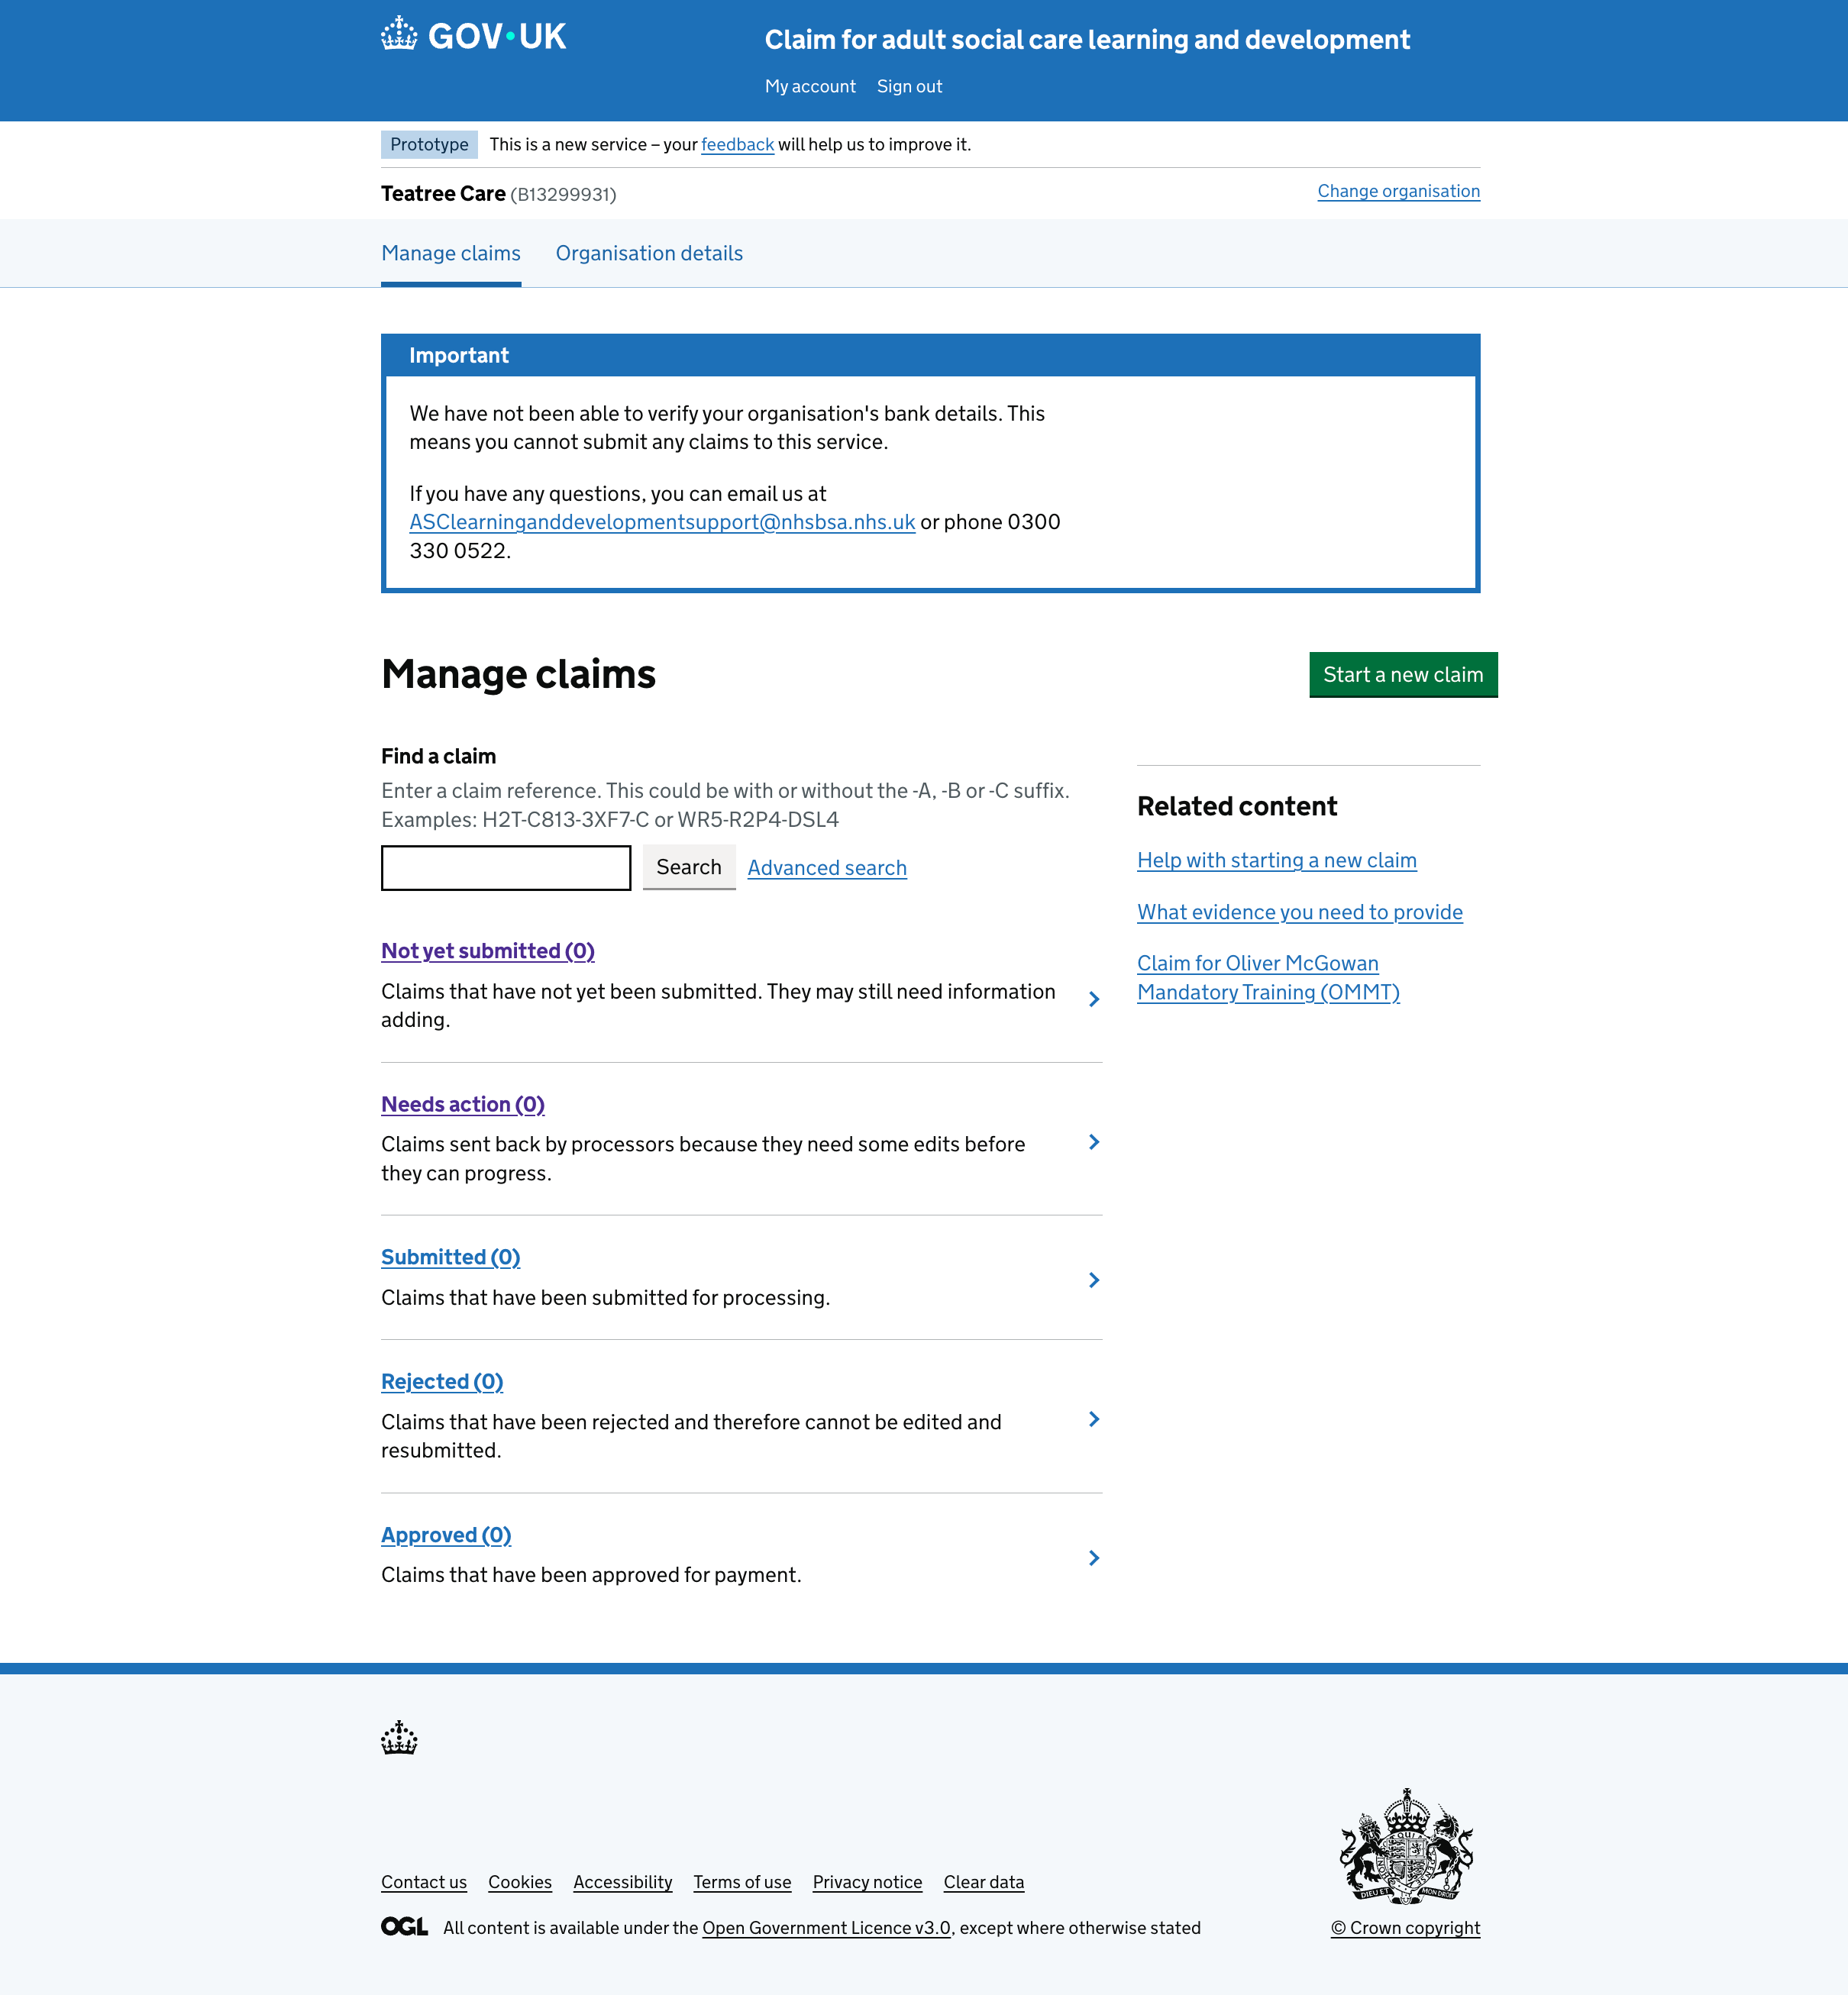
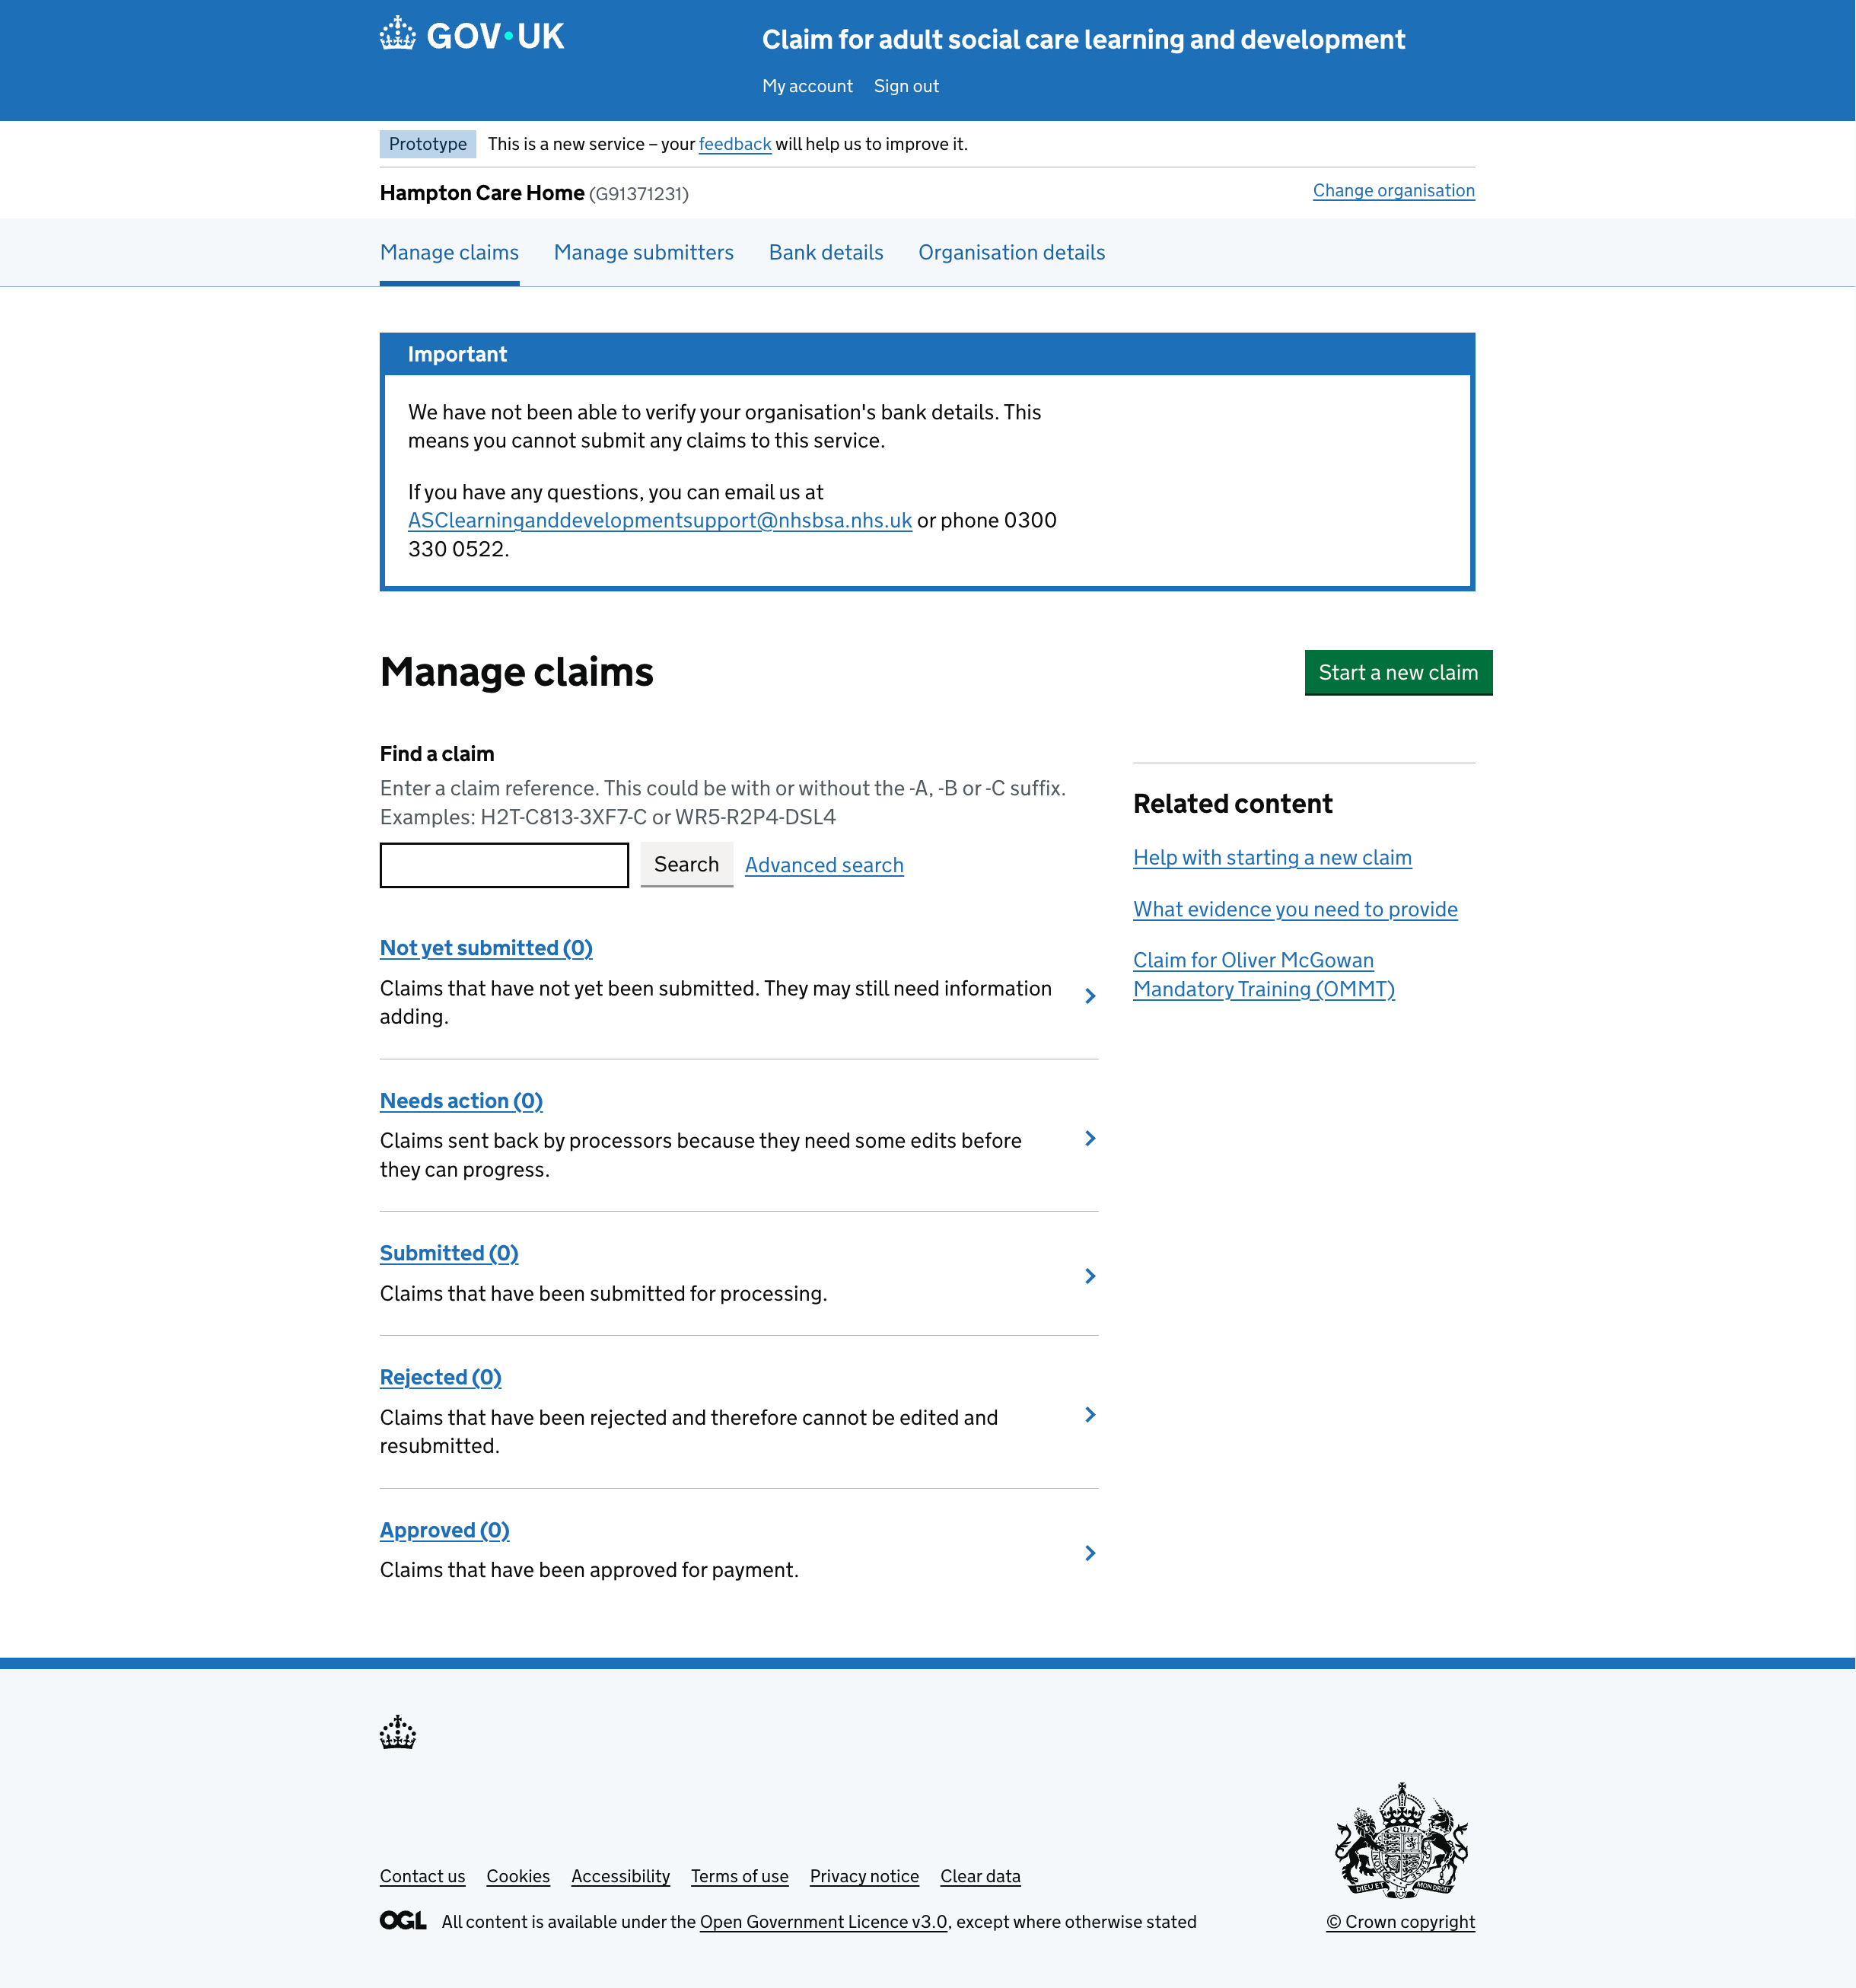
updating

diff --git a/app/posts/claims/2026-06-01-bank-details-org.md b/app/posts/claims/2026-06-01-bank-details-org.md
@@ -115,7 +115,7 @@ This would provide the best user experience and remove much of the manual operat
 
 - OM task
 
-Remove the first spreadsheet and instead have a OM task created and assigned to a QA once bank details have been submitted by a organisation. The task would contain the workplace ID of the org to check and the QA would go into the service to find the details 
+Remove the first spreadsheet and instead have a OM task created and assigned to a QA once bank details have been submitted by a organisation. The task would contain the workplace ID of the org to check and the QA would go into the service to find the details.
 
 > **We believe that** introducing a OM task for bank details verification
 > **Will be a useful feature for** QA's and organisations
@@ -123,11 +123,23 @@ Remove the first spreadsheet and instead have a OM task created and assigned to 
 
 - Bank verification status and outcome
 
-Introducing in a new status that shows the state of the bank verification checks of either "Not yet added" "Not yet processed (for QA's) / Submitted (for organisations)", "Verified", "Failed verification". 
+Introducing in a new status that shows the state of the bank verification checks of either "Not yet added", "Submitted", "Verified", "Failed verification". The AccessPay result of "Not yet added" and "Submitted" would be dependent on whether bank details have been inputted into the service by the organisation. The AccessPay results of "full match", "partial match", "unable to check" and "no match" will map to the bank verification status of "verified" or "failed verification" in the service based on how a QA resolves the result.
 
 > **We believe that** introducing this status into the service
 > **Will be a useful feature for** QA's and organisations
-> **As it will** make it clear to org's, SRO's and future processors whether the details have been verified and they don't have to consult offline spreadsheets or emails, and it saves phonecalls from the org to the BSA staff to confirm the state of their details.
+> **As it will** make it clear to org's, SRO's and future processors whether the details have been verified and they don't have to consult offline spreadsheets or emails, and it saves phonecalls from the org to the BSA staff to confirm the state of their details. Expectations on next steps communicated in the service can be set based on the status. 
+
+- Banners based off bank verification status
+
+Adding in the status of the verification of bank details means we can make the service more dynamic and specific in the content we deliver to the organisation of what can expect to happen now. 
+
+| Status | Manage claims banner content |
+| -------- | -------- |
+| Not yet added | Direct org's to get their SRO to upload their bank details. If they try to submit claims, we can inform them their bank details are missing. |
+| Submitted |  In combination with adding the date the details were submitted on the bank details tab, the banner can inform the org they are awaiting verification within 5 working days of the submitted date. Directs them to the email address they can expect a email from. |
+| Verified | The banner informs the organisation they can now submit claims. Banner is removed once there is a claim in the "submitted", "needs action", "approved" or "rejected" tab |
+| Failed verification |  Informs the organisation the details failed verification and can't submit claims. Directs to support details if needed |
+
 
 - Submission upon verification
 
@@ -174,60 +186,69 @@ Through these discussions we found that:
 
 ### MVP approach
 
-We held a scoping session and agreed that the first iteration should focus on delivering the smallest change that would provide meaningful value. Replacing a bit of the process, then can iterate to bring in more, as we aren’t saying this design is the perfect solution as that would probably be closer to full automation, but what’s the minimum we can do that brings value. If we went with bringing in edit into this first iteration with editing of details and uploading evidence and notes in the service, then it will take longer. 
+We held a scoping session and agreed that the first iteration should focus on delivering the smallest change that would provide meaningful value. Replacing a bit of the process, then can iterate to bring in more, as we aren’t saying this design is the perfect solution as that would probably be closer to full automation, but what’s the minimum we can do that brings value. If we went with bringing in edit into this first iteration with editing of details and uploading evidence and notes in the service, then it will take longer to develop and deliver. 
 
 The proposed MVP would:
-- Surface final bank verification outcome in the service. 
-- Show status for "not yet added", "submitted/not yet processed", "verified" and "verification failed" leaving anything to do with problem states offline. 
+- Record and surface just the final bank verification outcome in the service. 
+- Show status for "not yet added", "submitted", "verified" and "verification failed" leaving anything to do with problem states offline. 
 - Use banners to inform organisation's of what they should expect to happen next based on the status of their bank details
 - Include date of submission/verification/failure to help frame timelines of expectations and context
 - Prevent organisations from submitting claims until verification is complete which prevents claim processors from processing claims for organisations that have not been verified.
 - Remove the need for the first and third spreadsheet currently used in the process
 - Keep the existing offline process for resolving verification issues. This is what was captured in the second spreadsheet. All the interim results will be documented the same as now. Keeps it clear where each part of the process is happening by not bringing it just partly into the service. 
 - If need to update details, the QA will submit a service desk request. Once the request has been completed then the QA will be informed and they will go and record the verified result in the service.
+- Automatic emails will be sent to organisations based off the final outcome entered into the service.
+- SRO and submitters will have different role based access in the service. SRO's can enter the details and see the bank details tab. Submitter's don't have access to the bank details tab, they are informed on the status on the bank details verification based off the banner in the manage claims tab.
 
 Some business process clarifications:
 - If a organisation does not respond to email requests for additional information or updated details, it is a reject after a to-be agreed upon timeframe.
 - Organisation's should still be able to access the service if they have been rejected but not submit claims. 
 
-#### Final designs to go into testing 
+#### Designs to go into testing 
 
-Not yet added
+Status: Not yet added
 
 <div style="display: flex; flex-wrap: wrap; gap: 1rem;">
-  <div style="flex: 1; max-width: 48%;">
-    <figure>
-      <img src="sro-not-yet-added.png" alt="Bank details not yet added - SRO only" style="width: 100%; height: auto;">
-      <figcaption>Bank details not yet added - SRO only</figcaption>
-    </figure>
-  </div>
   <div style="flex: 1; max-width: 48%;">
     <figure>
       <img src="sro-not-yet-added-banner.png" alt="Manage claims screen with banner reflecting bank details status" style="width: 100%; height: auto;">
-      <figcaption>Manage claims screen with banner reflecting bank details status - SRO</figcaption>
+      <figcaption>SRO view - Manage claims screen with banner reflecting bank details status</figcaption>
     </figure>
   </div>
+    <div style="flex: 1; max-width: 48%;">
+    <figure>
+      <img src="submitter-not-yet-added.png" alt="Manage claims screen with banner reflecting bank details status" style="width: 100%; height: auto;">
+      <figcaption>Submitter view</figcaption>
+    </figure>
+  </div> 
 </div>
 
 <div style="display: flex; flex-wrap: wrap; gap: 1rem;">
+    <div style="flex: 1; max-width: 48%;">
+    <figure>
+      <img src="sro-not-yet-added.png" alt="Bank details not yet added - SRO only" style="width: 100%; height: auto;">
+      <figcaption>SRO view - Bank details not yet added</figcaption>
+    </figure>
+  </div>
   <div style="flex: 1; max-width: 48%;">
     <figure>
       <img src="add-details.png" alt="Add bank details - SRO only" style="width: 100%; height: auto;">
       <figcaption>Add bank details</figcaption>
     </figure>
   </div>
-  <div style="flex: 1; max-width: 48%;">
-    <figure>
-      <img src="submitter-not-yet-added.png" alt="Manage claims screen with banner reflecting bank details status" style="width: 100%; height: auto;">
-      <figcaption>Manage claims screen with banner reflecting bank details status - Submitter</figcaption>
-    </figure>
-  </div>
 </div>
+
 <div style="display: flex; flex-wrap: wrap; gap: 1rem;">
-  <div style="flex: 1; max-width: 48%;">
+<div style="flex: 1; max-width: 48%;">
     <figure>
       <img src="sro-missing-submit.png" alt="Error when submitting claim without adding bank details" style="width: 100%; height: auto;">
-      <figcaption>Error when submitting claim without adding bank details</figcaption>
+      <figcaption>SRO view - Error when submitting claim without adding bank details</figcaption>
+    </figure>
+  </div>
+  <div style="flex: 1; max-width: 48%;">
+    <figure>
+      <img src="submitter-missing-submit.png" alt="Error when submitting claim without adding bank details" style="width: 100%; height: auto;">
+      <figcaption>Submitter view</figcaption>
     </figure>
   </div>
 
@@ -238,29 +259,39 @@ Submitted
 <div style="display: flex; flex-wrap: wrap; gap: 1rem;">
   <div style="flex: 1; max-width: 48%;">
     <figure>
-      <img src="sro-submitted.png" alt="Bank details submitted - SRO only" style="width: 100%; height: auto;">
-      <figcaption>Bank details submitted - SRO only</figcaption>
+      <img src="sro-submitted-banner.png" alt="Manage claims screen with banner reflecting bank details status" style="width: 100%; height: auto;">
+      <figcaption>SRO view - Manage claims screen with banner reflecting bank details status</figcaption>
     </figure>
   </div>
   <div style="flex: 1; max-width: 48%;">
     <figure>
-      <img src="sro-submitted-banner.png" alt="Manage claims screen with banner reflecting bank details status" style="width: 100%; height: auto;">
-      <figcaption>Manage claims screen with banner reflecting bank details status</figcaption>
+      <img src="submitter-submitted-banner.png" alt="Manage claims screen with banner reflecting bank details status - submitter role" style="width: 100%; height: auto;">
+      <figcaption>Submitter view</figcaption>
+    </figure>
+  </div>
+
+</div>
+
+<div style="display: flex; flex-wrap: wrap; gap: 1rem;">
+    <div style="flex: 1; max-width: 48%;">
+    <figure>
+      <img src="sro-bank-details-submitted.png" alt="Bank details submitted - SRO only" style="width: 100%; height: auto;">
+      <figcaption>SRO only - successfully submitted bank details</figcaption>
     </figure>
   </div>
 </div>
 
 <div style="display: flex; flex-wrap: wrap; gap: 1rem;">
-  <div style="flex: 1; max-width: 48%;">
+    <div style="flex: 1; max-width: 48%;">
     <figure>
-      <img src="submitter-submitted.png" alt="Manage claims screen with banner reflecting bank details status - submitter role" style="width: 100%; height: auto;">
-      <figcaption>Manage claims screen with banner reflecting bank details status - submitter</figcaption>
+      <img src="sro-awaiting-submit.png" alt="Bank details submitted - SRO only" style="width: 100%; height: auto;">
+      <figcaption>SRO view - Error when submitting a claim and bank details have only been submitted but not yet verified</figcaption>
     </figure>
   </div>
   <div style="flex: 1; max-width: 48%;">
     <figure>
-      <img src="sro-unverified-submit.png" alt="Error when submitting a claim and bank details have only been submitted but not yet verified" style="width: 100%; height: auto;">
-      <figcaption>Error when submitting a claim and bank details have only been submitted but not yet verified</figcaption>
+      <img src="submitter-awaiting-submit.png" alt="Error when submitting a claim and bank details have only been submitted but not yet verified" style="width: 100%; height: auto;">
+      <figcaption>Submitter view</figcaption>
     </figure>
   </div>
 </div>
@@ -272,14 +303,23 @@ Verified
 <div style="display: flex; flex-wrap: wrap; gap: 1rem;">
   <div style="flex: 1; max-width: 48%;">
     <figure>
-      <img src="sro-verified.png" alt="Bank details verified - SRO only" style="width: 100%; height: auto;">
-      <figcaption>Bank details verified - SRO only</figcaption>
+      <img src="sro-verified-banner.png" alt="Bank details verified - SRO only" style="width: 100%; height: auto;">
+      <figcaption>Bank details verified</figcaption>
     </figure>
   </div>
   <div style="flex: 1; max-width: 48%;">
     <figure>
-      <img src="sro-verified-banner.png" alt="Manage claims screen with banner reflecting bank details status" style="width: 100%; height: auto;">
-      <figcaption>Manage claims screen with banner reflecting bank details status - SRO and submitter</figcaption>
+      <img src="sro-verified-with-claims.png" alt="Manage claims screen with banner reflecting bank details status" style="width: 100%; height: auto;">
+      <figcaption>Bank details verified and claims submitted - no banner</figcaption>
+    </figure>
+  </div>
+</div>
+
+<div style="display: flex; flex-wrap: wrap; gap: 1rem;">
+  <div style="flex: 1; max-width: 48%;">
+    <figure>
+      <img src="sro-verified.png" alt="Bank details verified - SRO only" style="width: 100%; height: auto;">
+      <figcaption>SRO only view - Bank details verified</figcaption>
     </figure>
   </div>
 </div>
@@ -289,14 +329,14 @@ Verification failed
 <div style="display: flex; flex-wrap: wrap; gap: 1rem;">
   <div style="flex: 1; max-width: 48%;">
     <figure>
-      <img src="sro-failed.png" alt="Bank details verification failed - SRO only" style="width: 100%; height: auto;">
-      <figcaption>Bank details tab with verification failed - SRO</figcaption>
+      <img src="sro-failed-banner.png" alt="Manage claims screen with banner reflecting bank details status" style="width: 100%; height: auto;">
+      <figcaption>SRO view - Manage claims screen with banner reflecting bank details status</figcaption>
     </figure>
   </div>
   <div style="flex: 1; max-width: 48%;">
     <figure>
-      <img src="sro-failed-banner.png" alt="Manage claims screen with banner reflecting bank details status" style="width: 100%; height: auto;">
-      <figcaption>Manage claims screen with banner reflecting bank details status - SRO</figcaption>
+      <img src="submitter-failed.png" alt="Manage claims screen with banner reflecting bank details status - submitter role" style="width: 100%; height: auto;">
+      <figcaption>Submitter view</figcaption>
     </figure>
   </div>
 </div>
@@ -304,14 +344,23 @@ Verification failed
 <div style="display: flex; flex-wrap: wrap; gap: 1rem;">
   <div style="flex: 1; max-width: 48%;">
     <figure>
-      <img src="submitter-failed.png" alt="Manage claims screen with banner reflecting bank details status - submitter role" style="width: 100%; height: auto;">
-      <figcaption>Manage claims screen with banner reflecting bank details status - submitter</figcaption>
+      <img src="sro-failed.png" alt="Bank details verification failed - SRO only" style="width: 100%; height: auto;">
+      <figcaption>SRO view - Bank details tab with verification failed</figcaption>
     </figure>
   </div>
+</div>
+
+<div style="display: flex; flex-wrap: wrap; gap: 1rem;">
   <div style="flex: 1; max-width: 48%;">
     <figure>
       <img src="sro-failed-submit.png" alt="Error when trying to submit with failed bank details" style="width: 100%; height: auto;">
-      <figcaption>Error when trying to submit with failed bank details</figcaption>
+      <figcaption>SRO view - Error when trying to submit with failed bank details</figcaption>
+    </figure>
+  </div>
+    <div style="flex: 1; max-width: 48%;">
+    <figure>
+      <img src="submitter-failed-submit.png" alt="Bank details verification failed - SRO only" style="width: 100%; height: auto;">
+      <figcaption>Submitter view </figcaption>
     </figure>
   </div>
 </div>
@@ -325,13 +374,12 @@ This approach addresses the most significant user and operational risks while al
 - Whether users understood the different verification states.
 - Whether the proposed banners and status messages clearly communicated what was happening.
 - Expectations around verification timescales.
-- Whether organisations preferred being prevented from submitting claims until verification was complete.
+- Whether organisations found it frustrating being prevented from submitting claims until verification was complete, or would rather submit knowing they wouldn't be processed until bank details were verified.
 - How organisations expected to be notified when verification was successful.
 - What users expected to happen if there was a problem with their bank details.
 - Whether organisations would rely on email communication if issues needed to be resolved outside the service.
 - Whether users wanted visibility of verification dates and status history.
-- We also explored how organisations interpreted the different stages of the journey and whether there was - sufficient clarity around when they could begin submitting claims.
-- Testing is ongoing and will help us understand whether the proposed MVP provides enough visibility and reassurance while maintaining a simpler solution for the first iteration.
+- We also explored how organisations interpreted the different stages of the journey and whether there was sufficient clarity around when they could begin submitting claims.
 
 {# #### Who did they test with
 X Participants:
@@ -344,7 +392,7 @@ Moderated usability testing sessions and semi structured interview questions
 
 ### Findings:
 
-Analysis of the UR findings revealed a desire for edit bank details functionality to be available to organisations. The recommendation action was to review the scope for this feature, and it's priority revisited in the roadmap. Everything else in the designs functioned as expected.
+Analysis of the UR findings revealed a desire for edit bank details functionality to be available to organisations. The recommendation action was to review the scope for this feature, and it's priority revisited in the roadmap. Everything else in the designs functioned as expected and the proposed MVP provides enough visibility and reassurance while maintaining a simpler solution for the first iteration.
 
 ## What we will do next
 